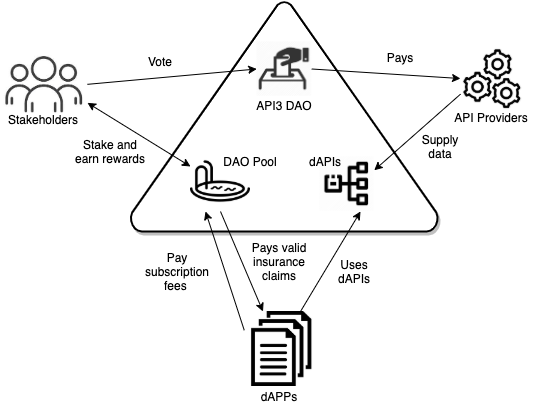
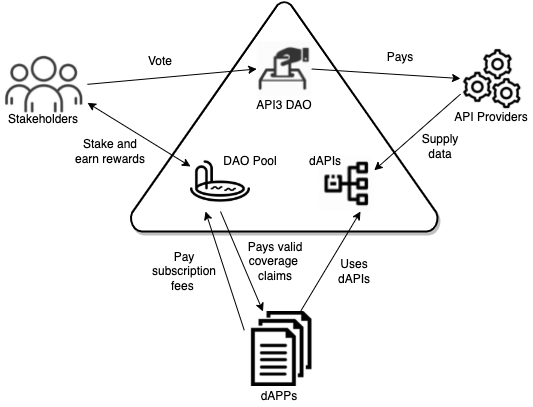
Diagrams with insurance in them Some link text updated

diff --git a/docs/dao-members/introduction/dao-pool.md b/docs/dao-members/introduction/dao-pool.md
@@ -57,7 +57,7 @@ _Main utilities of the API3 token._
 
 1. [Staking](dao-pool.md#staking): Grants membership in the API3 DAO and rights
    to [inflationary rewards](dao-pool.md#inflationary-rewards).
-1. [Collateral](dao-pool.md#collateral): Backs coverages services that protect
+1. [Collateral](dao-pool.md#collateral): Backs coverage services that protect
    users from damages caused by dAPI malfunctions.
 1. [Governance](dao-pool.md#governance): Grants direct representation in the
    API3 DAO.
@@ -81,6 +81,10 @@ _security_ in the form of the coverage service. The DAO pool also grants you
 inflationary rewards and exposes you to the risk of coverage service claims.
 
 > ![dao-pool-staking](../assets/images/dao-pool-staking.png)
+>
+> <p class="diagram-line" style="color:gray;margin-top:25px;">Staked tokens in the DAO pool grant 
+> governance voting rights, inflationary rewards and are used to fund the coverage 
+> service which exposes staked tokens to the risks of coverage service claims.</p>
 
 **Benefits:**
 
@@ -118,7 +122,7 @@ Exposing the governing parties to the risk would align their incentives with
 that of the DAO. The governing parties need to be penalized when a dAPI
 malfunction occurs using an onchain coverage service that provides dAPI users
 with quantifiable and trustless security guarantees. The
-[coverage service](dao-pool.md#coverage-service) uses staked tokens of the DAO
+[Coverage Service](dao-pool.md#coverage-service) uses staked tokens of the DAO
 pool as collateral, which means that when a dAPI malfunction is confirmed
 through the dispute resolution protocol, user damages will be covered from the
 pool's staked tokens.
@@ -161,7 +165,7 @@ clients. API3 follows the same scheme for dAPIs.
 To gain access to a dAPI, a dApp will pay a recurring subscription fee, which
 may be fixed or customized for the dApp based on a specific use case. These
 prices will be determined by the respective team, and will include a premium if
-the dApp wants to receive the [coverage service](dao-pool.md#coverage-service).
+the dApp wants to receive the [Coverage Service](dao-pool.md#coverage-service).
 The payment can be made in any cryptocurrency, which will be received by the DAO
 in API3 tokens through a liquidity pool-based decentralized exchange.
 
@@ -187,6 +191,8 @@ mechanic will produce positive staking incentives using inflationary rewards and
 claim risks rather than revenue sharing.
 
 > ![dao-pool-staking-2](../assets/images/dao-pool-staking-2.png)
+>
+> <p class="diagram-line" style="color:gray;margin-top:25px;">Fees from revenue are burned. Inflationary rewards are distributed by the DAO. Coverage service claims are paid to dAPI covered entities from the pool of staked tokens.</p>
 
 ### Earning Rewards
 
@@ -347,4 +353,4 @@ transfers tokens from the DAO pool to the recipient. When this occurs, the total
 number of staked tokens goes down, and pool share value goes down in turn.
 Reference
 <a href="/api3-whitepaper-v1.0.2.pdf#Insurance process" target="_api3-whitepaper">section
-6.3 _"Insurance process"_</a> of the API3 whitepaper.
+6.3 _"Coverage service process"_</a> of the API3 whitepaper.

diff --git a/docs/dao-members/introduction/api3-dao.md b/docs/dao-members/introduction/api3-dao.md
@@ -17,9 +17,9 @@ The API3 project has a completely open, decentralized and direct governance
 model. Any API3 token holder can stake the DAO pool and obtain direct voting
 privileges in the DAO and thus participate in the governance of the project
 directly. In addition, stakers receive
-[inflationary rewards](dao-pool.md#inflationary-rewards) and any additional
+[Inflationary Rewards](dao-pool.md#inflationary-rewards) and any additional
 benefits that the DAO may decide on in the future. The staked API3 tokens will
-back an on-chain [coverage service](dao-pool.md#coverage-service) as collateral
+back an on-chain [Coverage Service](dao-pool.md#coverage-service) as collateral
 to provide dAPI users with quantifiable and trustless security guarantees.
 
 The DAO votes on high-level matters such as staking incentives and
